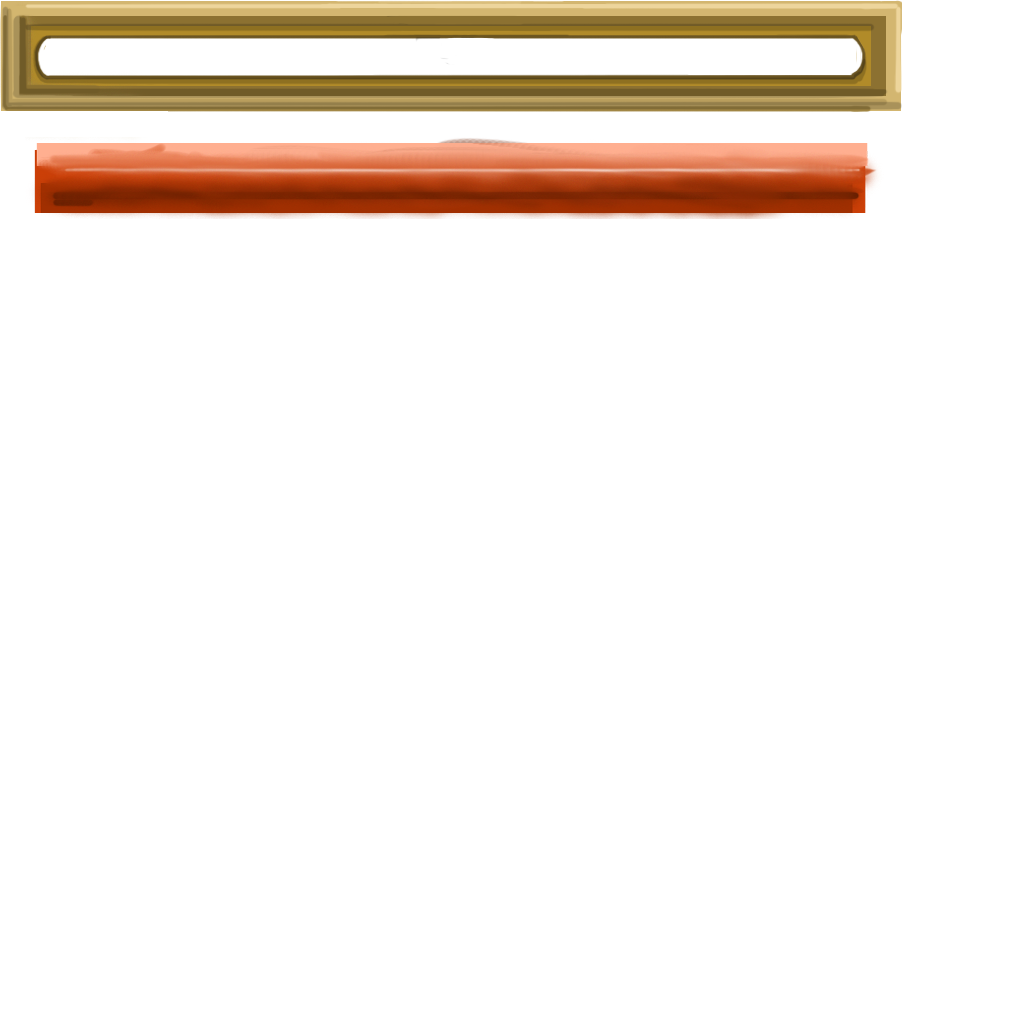
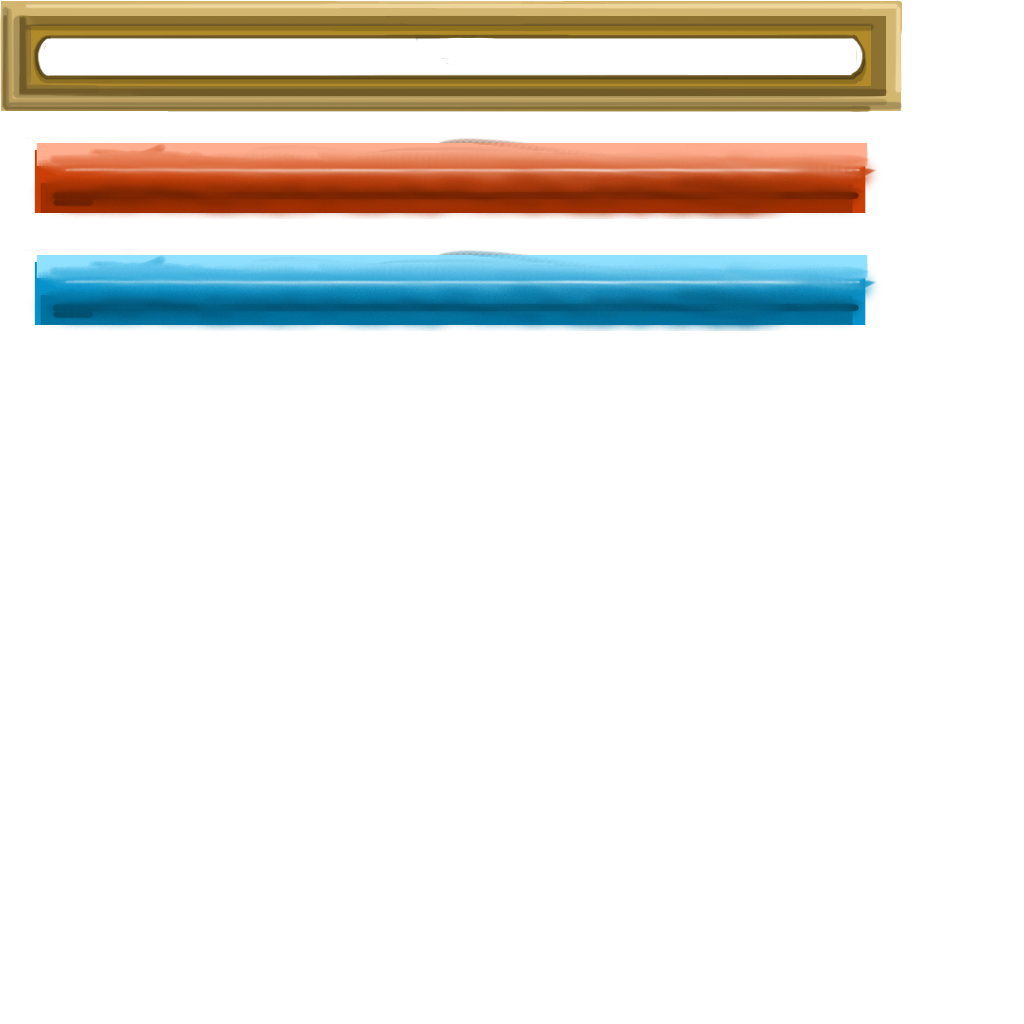
Ghost mana. Closes #290 @1h.

Changed region(s): [[0.0312, 0.2188, 0.875, 0.3438]]

diff --git a/capstone-game-cpp/SceneObjects/Ghost.cpp b/capstone-game-cpp/SceneObjects/Ghost.cpp
@@ -29,22 +29,22 @@ Ghost::Ghost() : mNetworkID(nullptr)
 
 	auto spawnMinion = Factory<Skill>::Create();
 	spawnMinion->mSceneObject = this;
-	spawnMinion->Setup("Basic Minion", 10, 0, DoSpawnBasicMinion);
+	spawnMinion->Setup("Basic Minion", 10, 0, DoSpawnBasicMinion, 10);
 	mSkills[1] = spawnMinion;
 
 	spawnMinion = Factory<Skill>::Create();
 	spawnMinion->mSceneObject = this;
-	spawnMinion->Setup("Bomber Minion", 20, 0, DoSpawnBomberMinion);
+	spawnMinion->Setup("Bomber Minion", 20, 0, DoSpawnBomberMinion, 20);
 	mSkills[2] = spawnMinion;
 
 	spawnMinion = Factory<Skill>::Create();
 	spawnMinion->mSceneObject = this;
-	spawnMinion->Setup("Plant Minion", 10, 0, DoSpawnPlantMinion);
+	spawnMinion->Setup("Plant Minion", 10, 0, DoSpawnPlantMinion, 50);
 	mSkills[3] = spawnMinion;
 
 	spawnMinion = Factory<Skill>::Create();
 	spawnMinion->mSceneObject = this;
-	spawnMinion->Setup("Transmogrify", 40, 20, DoTransmogrify);
+	spawnMinion->Setup("Transmogrify", 40, 20, DoTransmogrify, 0);
 	mSkills[4] = spawnMinion;
 	
 	auto clickInteraction = Factory<Skill>::Create();
@@ -52,6 +52,8 @@ Ghost::Ghost() : mNetworkID(nullptr)
 	clickInteraction->SetBinding(SkillBinding().Set(MOUSEBUTTON_LEFT));
 	clickInteraction->Setup("Left Click", 0, 0, DoMouseClick);
 	mSkills[0] = clickInteraction;
+
+	mMana = mMaxMana;
 }
 
 void Ghost::Spawn(BaseScene * scene)
@@ -70,57 +72,77 @@ void Ghost::Spawn(BaseScene * scene)
 	SetActiveSkill(1);
 }
 
-void Ghost::DoSpawnBasicMinion(BaseSceneObject* obj, float duration, BaseSceneObject* target, vec3f pos)
+bool Ghost::DoSpawnBasicMinion(BaseSceneObject* obj, float duration, BaseSceneObject* target, vec3f pos)
 {
-	DoSpawnMinion(obj, duration, target, pos, SKILL_TYPE_BASIC_MINION);
+	return DoSpawnMinion(obj, duration, target, pos, SKILL_TYPE_BASIC_MINION);
 }
-void Ghost::DoSpawnBomberMinion(BaseSceneObject* obj, float duration, BaseSceneObject* target, vec3f pos)
+bool Ghost::DoSpawnBomberMinion(BaseSceneObject* obj, float duration, BaseSceneObject* target, vec3f pos)
 {
-	DoSpawnMinion(obj, duration, target, pos, SKILL_TYPE_BOMBER_MINION);
+	return DoSpawnMinion(obj, duration, target, pos, SKILL_TYPE_BOMBER_MINION);
 }
-void Ghost::DoSpawnPlantMinion(BaseSceneObject* obj, float duration, BaseSceneObject* target, vec3f pos)
+bool Ghost::DoSpawnPlantMinion(BaseSceneObject* obj, float duration, BaseSceneObject* target, vec3f pos)
 {
-	DoSpawnMinion(obj, duration, target, pos, SKILL_TYPE_PLANT_MINION);
+	return DoSpawnMinion(obj, duration, target, pos, SKILL_TYPE_PLANT_MINION);
 }
 
-void Ghost::DoSpawnMinion(BaseSceneObject* obj, float duration, BaseSceneObject* target, vec3f pos, SkillPacketTypes minionType)
+bool Ghost::DoSpawnMinion(BaseSceneObject* obj, float duration, BaseSceneObject* target, vec3f pos, SkillPacketTypes minionType)
 {
+	if (!target->Is<Region>()) return false;
+
 	auto ghost = reinterpret_cast<Ghost*>(obj);
 	ghost->mEvents->Play("Spawn");
 
 	TRACE_LOG("Spawning at" << pos);
 	NetworkCmd::SpawnNewSkill(minionType, pos, duration);
+
+	return true;
 }
 
-void Ghost::DoTransmogrify(BaseSceneObject* obj, float duration, BaseSceneObject* target, vec3f pos)
+bool Ghost::DoTransmogrify(BaseSceneObject* obj, float duration, BaseSceneObject* target, vec3f pos)
 {
+	if (!target->Is<Explorer>()) return false;
+
 	auto victim = reinterpret_cast<Explorer*>(target);
 
 	//TODO
+	return true;
 }
 
-void Ghost::DoMouseClick(BaseSceneObject* obj, float duration, BaseSceneObject* target, vec3f pos)
+bool Ghost::DoMouseClick(BaseSceneObject* obj, float duration, BaseSceneObject* target, vec3f pos)
 {
 	auto ghost = reinterpret_cast<Ghost*>(obj);
 
-	if (target) {
-		if (target->Is<Door>()) {
-			auto door = reinterpret_cast<Door*>(target);
-			door->ToogleDoor();
-		}
-		else if (target->Is<Region>()) {
-			if (ghost->mActiveSkill <= 3)
-				ghost->mSkills[ghost->mActiveSkill]->UseSkill(target, pos);
-		}
-		else if (target->Is<Explorer>()) {
-			if (ghost->mActiveSkill == 3)
-				ghost->mSkills[ghost->mActiveSkill]->UseSkill(target, pos);
+	if (!target) return false;
+
+	if (target->Is<Door>()) {
+		auto door = reinterpret_cast<Door*>(target);
+		door->ToogleDoor();
+	}
+	else {
+		//Spawn X or transmogrify
+		Skill* activeSkill = ghost->mSkills[ghost->mActiveSkill];
+
+		if (ghost->mMana >= activeSkill->mCost) {
+			if (activeSkill->UseSkill(target, pos)) {
+				ghost->mMana -= activeSkill->mCost;
+			}
+		} else {
+			TRACE_LOG("No mana for skill");
 		}
 	}
+
+	return true;
 }
 
 void Ghost::SetActiveSkill(int skillNum)
 {
 	mActiveSkill = skillNum;
 	mSkillBar->SetActive(mSkills[mActiveSkill]);
+}
+
+void Ghost::TickMana(float milliseconds)
+{
+	mMana += mManaRegenPerS * (milliseconds / 1000);
+	if (mMana > mMaxMana) mMana = mMaxMana;
+	if (mMana < 0) mMana = 0;
 }

diff --git a/capstone-game-cpp/SceneObjects/Explorer.cpp b/capstone-game-cpp/SceneObjects/Explorer.cpp
@@ -290,19 +290,21 @@ void Explorer::UpdateComponents(quatf rotation, vec3f position)
 	}
 }
 
-void Explorer::DoSprint(BaseSceneObject* obj, float duration, BaseSceneObject* target, vec3f worldPosition)
+bool Explorer::DoSprint(BaseSceneObject* obj, float duration, BaseSceneObject* target, vec3f worldPosition)
 {
 	auto e = reinterpret_cast<Explorer*>(obj);
 	e->mController->Sprint(duration);
+	return true;
 }
 
-void Explorer::DoMelee(BaseSceneObject* obj, float duration, BaseSceneObject* target, vec3f worldPosition)
+bool Explorer::DoMelee(BaseSceneObject* obj, float duration, BaseSceneObject* target, vec3f worldPosition)
 {
 	auto e = reinterpret_cast<Explorer*>(obj);
 	e->mController->Melee();
+	return true;
 }
 
-void Explorer::DoHeal(BaseSceneObject* obj, float duration, BaseSceneObject* target, vec3f worldPosition)
+bool Explorer::DoHeal(BaseSceneObject* obj, float duration, BaseSceneObject* target, vec3f worldPosition)
 {
 	Explorer* explorer = reinterpret_cast<Explorer*>(obj);
 	if (explorer->mNetworkID->mHasAuthority)
@@ -314,9 +316,10 @@ void Explorer::DoHeal(BaseSceneObject* obj, float duration, BaseSceneObject* tar
 		p.UUID = explorer->mNetworkID->mUUID;
 		explorer->mNetworkClient->SendData(&p);
 	}
+	return true;
 }
 
-void Explorer::DoPoison(BaseSceneObject* obj, float duration, BaseSceneObject* target, vec3f worldPosition)
+bool Explorer::DoPoison(BaseSceneObject* obj, float duration, BaseSceneObject* target, vec3f worldPosition)
 {
 	Explorer* explorer = reinterpret_cast<Explorer*>(obj);
 	if (explorer->mNetworkID->mHasAuthority)
@@ -328,9 +331,10 @@ void Explorer::DoPoison(BaseSceneObject* obj, float duration, BaseSceneObject* t
 		p.UUID = explorer->mNetworkID->mUUID;
 		explorer->mNetworkClient->SendData(&p);
 	}
+	return true;
 }
 
-void Explorer::DoSlow(BaseSceneObject* obj, float duration, BaseSceneObject* target, vec3f worldPosition)
+bool Explorer::DoSlow(BaseSceneObject* obj, float duration, BaseSceneObject* target, vec3f worldPosition)
 {
 	Explorer* explorer = reinterpret_cast<Explorer*>(obj);
 	if (explorer->mNetworkID->mHasAuthority)
@@ -342,6 +346,7 @@ void Explorer::DoSlow(BaseSceneObject* obj, float duration, BaseSceneObject* tar
 		p.UUID = explorer->mNetworkID->mUUID;
 		explorer->mNetworkClient->SendData(&p);
 	}
+	return true;
 }
 
 void Explorer::OnMeleeStart(void* obj)

diff --git a/capstone-game-cpp/Components/Skill.cpp b/capstone-game-cpp/Components/Skill.cpp
@@ -47,11 +47,12 @@ void Skill::SetBinding(SkillBinding& binding)
 	mBinding = binding;
 }
 
-void Skill::Setup(const char* name, float cooldown, float duration, UseCallback callback)
+void Skill::Setup(const char* name, float cooldown, float duration, UseCallback callback, float cost)
 {
 	mName = name;
 	mCoolDown = cooldown;
 	mDuration = duration;
+	mCost = cost;
 	RegisterUseCallback(callback);
 }
 
@@ -65,23 +66,15 @@ public:
 
 void Skill::Update()
 {
-	if (!mIsActive)
-	{
-		return;
-	}
+	if (!mIsActive) return;
 
 	//--- check if a binding was activated
-
 	bool useSkill = false;
-
 	useSkill = useSkill || (mBinding.bindingType & KEY_CODE)       && mInput->GetKeyDown(mBinding.keyCode);
 	useSkill = useSkill || (mBinding.bindingType & MOUSE_BUTTON)   && mInput->GetMouseButtonDown(mBinding.mouseButton);
 	useSkill = useSkill || (mBinding.bindingType & GAMEPAD_BUTTON) && mInput->GetGamepadButtonDown(mBinding.gamepadButton);
 
-	if (!useSkill)
-	{
-		return;
-	}
+	if (!useSkill) return;
 
 	BaseSceneObject* target = nullptr;
 	vec3f skillPos;
@@ -100,24 +93,25 @@ void Skill::Update()
 	UseSkill(target, skillPos);
 }
 
-void Skill::UseSkill(BaseSceneObject* target, vec3f skillPos)
+bool Skill::UseSkill(BaseSceneObject* target, vec3f skillPos)
 {
-	//--- check if skill is still on cooldown
-	// app time in seconds
+	//Cooldown
 	float appTime = float(mTimer->GetApplicationTime()) * 0.001f;
 	float timeFromLastUse = appTime - mLastUsed;
 
 	if (timeFromLastUse < mCoolDown)
 	{
-		// on cooldown
 		TRACE_WARN("Skill on cooldown: " << (mCoolDown - timeFromLastUse));
-		return;
+		return false;
 	}
 
-	//--- fire callback
-	OnUse(mDuration, target, skillPos);
+	//Fire callback
+	if (OnUse(mDuration, target, skillPos)) {
+		mLastUsed = appTime;
+		return true;
+	}
 
-	mLastUsed = appTime;
+	return false;
 }
 
 float Skill::Recharged()

diff --git a/capstone-game-cpp/SceneObjects/Ghost.h b/capstone-game-cpp/SceneObjects/Ghost.h
@@ -16,6 +16,9 @@ private:
 	class CameraManager*		mCameraManager;
 	class SkillBar*				mSkillBar;
 	int							mActiveSkill;
+	float						mMana;
+	const float					mMaxMana = 100;
+	const float					mManaRegenPerS = 1;
 
 private:
 	Ghost();
@@ -24,14 +27,15 @@ private:
 public:
 	void Spawn(class BaseScene* scene);
 	void SetActiveSkill(int skillNum);
+	void TickMana(float milliseconds);
+	float GetMana() { return mMana; };
 
-	static void DoMouseClick(BaseSceneObject* obj, float duration, BaseSceneObject* target, vec3f pos);
-	
-	static void DoSpawnBasicMinion(BaseSceneObject* obj, float duration, BaseSceneObject* target, vec3f pos);
-	static void DoSpawnBomberMinion(BaseSceneObject* obj, float duration, BaseSceneObject* target, vec3f pos);
-	static void DoSpawnPlantMinion(BaseSceneObject* obj, float duration, BaseSceneObject* target, vec3f pos);
-	static void DoTransmogrify(BaseSceneObject* obj, float duration, BaseSceneObject* target, vec3f pos);
+	static bool DoMouseClick(BaseSceneObject* obj, float duration, BaseSceneObject* target, vec3f pos);
+	static bool DoSpawnBasicMinion(BaseSceneObject* obj, float duration, BaseSceneObject* target, vec3f pos);
+	static bool DoSpawnBomberMinion(BaseSceneObject* obj, float duration, BaseSceneObject* target, vec3f pos);
+	static bool DoSpawnPlantMinion(BaseSceneObject* obj, float duration, BaseSceneObject* target, vec3f pos);
+	static bool DoTransmogrify(BaseSceneObject* obj, float duration, BaseSceneObject* target, vec3f pos);
 
 private:
-	static void DoSpawnMinion(BaseSceneObject* obj, float duration, BaseSceneObject* target, vec3f pos, SkillPacketTypes minionType);
+	static bool DoSpawnMinion(BaseSceneObject* obj, float duration, BaseSceneObject* target, vec3f pos, SkillPacketTypes minionType);
 };

diff --git a/capstone-game-cpp/SceneObjects/Explorer.h b/capstone-game-cpp/SceneObjects/Explorer.h
@@ -45,11 +45,11 @@ public:
 	static void OnHealthChange(BaseSceneObject* obj, float newVal);
 	static void OnCollisionExit(BaseSceneObject* obj, BaseSceneObject* other);
 
-	static void DoSprint(BaseSceneObject* obj, float duration, BaseSceneObject* target, vec3f worldPosition);
-	static void DoMelee(BaseSceneObject* obj, float duration, BaseSceneObject* target, vec3f worldPosition);
-	static void DoHeal(BaseSceneObject* obj, float duration, BaseSceneObject* target, vec3f worldPosition);
-	static void DoPoison(BaseSceneObject* obj, float duration, BaseSceneObject* target, vec3f worldPosition);
-	static void DoSlow(BaseSceneObject* obj, float duration, BaseSceneObject* target, vec3f worldPosition);
+	static bool DoSprint(BaseSceneObject* obj, float duration, BaseSceneObject* target, vec3f worldPosition);
+	static bool DoMelee(BaseSceneObject* obj, float duration, BaseSceneObject* target, vec3f worldPosition);
+	static bool DoHeal(BaseSceneObject* obj, float duration, BaseSceneObject* target, vec3f worldPosition);
+	static bool DoPoison(BaseSceneObject* obj, float duration, BaseSceneObject* target, vec3f worldPosition);
+	static bool DoSlow(BaseSceneObject* obj, float duration, BaseSceneObject* target, vec3f worldPosition);
 
 	static void OnMeleeStart(void* obj);
 	static void OnMeleeStop(void* obj);

diff --git a/capstone-game-cpp/Components/Skill.h b/capstone-game-cpp/Components/Skill.h
@@ -23,11 +23,12 @@ struct SkillBinding
 class Skill : public BaseComponent
 {
 	friend class Factory<Skill>;
-	EXPOSE_CALLBACK_3(Use, float, BaseSceneObject*, vec3f)
+	EXPOSE_CALLBACK_BOOL_3(Use, float, BaseSceneObject*, vec3f)
 
 public:
 	vec3f mColliderOffset;
 	float mCoolDown;
+	float mCost;
 	float mDuration;
 	float mLastUsed;
 	const char* mName;
@@ -45,9 +46,9 @@ private:
 
 public:
 	void SetBinding(SkillBinding& binding);
-	void Setup(const char* name, float cooldown, float duration, UseCallback callback);
+	void Setup(const char* name, float cooldown, float duration, UseCallback callback, float cost = 0);
 	void Update();
-	void UseSkill(BaseSceneObject* target = nullptr, vec3f skillPos = vec3f(0,0,0));
+	bool UseSkill(BaseSceneObject* target = nullptr, vec3f skillPos = vec3f(0,0,0));
 	float Recharged();
 };
 

diff --git a/capstone-game-cpp/Components/BaseComponent.h b/capstone-game-cpp/Components/BaseComponent.h
@@ -38,10 +38,10 @@ private: \
 	name##Callback m##name = nullptr;
 
 
-#define EXPOSE_CALLBACK_3(name, argtype1, argtype2, argtype3) 	\
-typedef void(*name##Callback)(BaseSceneObject*, argtype1, argtype2, argtype3); \
+#define EXPOSE_CALLBACK_BOOL_3(name, argtype1, argtype2, argtype3) 	\
+typedef bool(*name##Callback)(BaseSceneObject*, argtype1, argtype2, argtype3); \
 public: \
 	void Register##name##Callback(name##Callback handler) { m##name = handler; } \
-	void On##name(argtype1 arg1, argtype2 arg2, argtype3 arg3) { if (m##name) return m##name(mSceneObject, arg1, arg2, arg3); };\
+	bool On##name(argtype1 arg1, argtype2 arg2, argtype3 arg3) { if (m##name) return m##name(mSceneObject, arg1, arg2, arg3); return false; };\
 private: \
 	name##Callback m##name = nullptr;

diff --git a/capstone-game-cpp/Components/GhostController.cpp b/capstone-game-cpp/Components/GhostController.cpp
@@ -68,6 +68,8 @@ void GhostController::Update(double milliseconds)
 	{
 		ghost->SetActiveSkill(4);
 	}
+
+	ghost->TickMana(float(milliseconds));
 }
 
 GhostController::GhostController(): 
